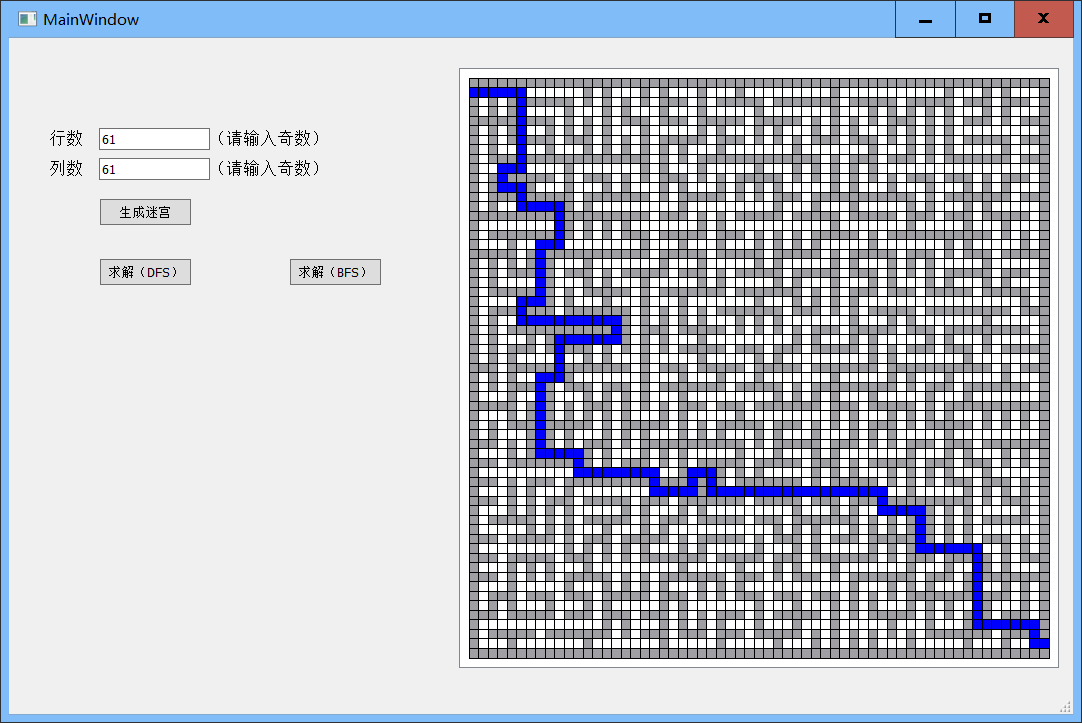
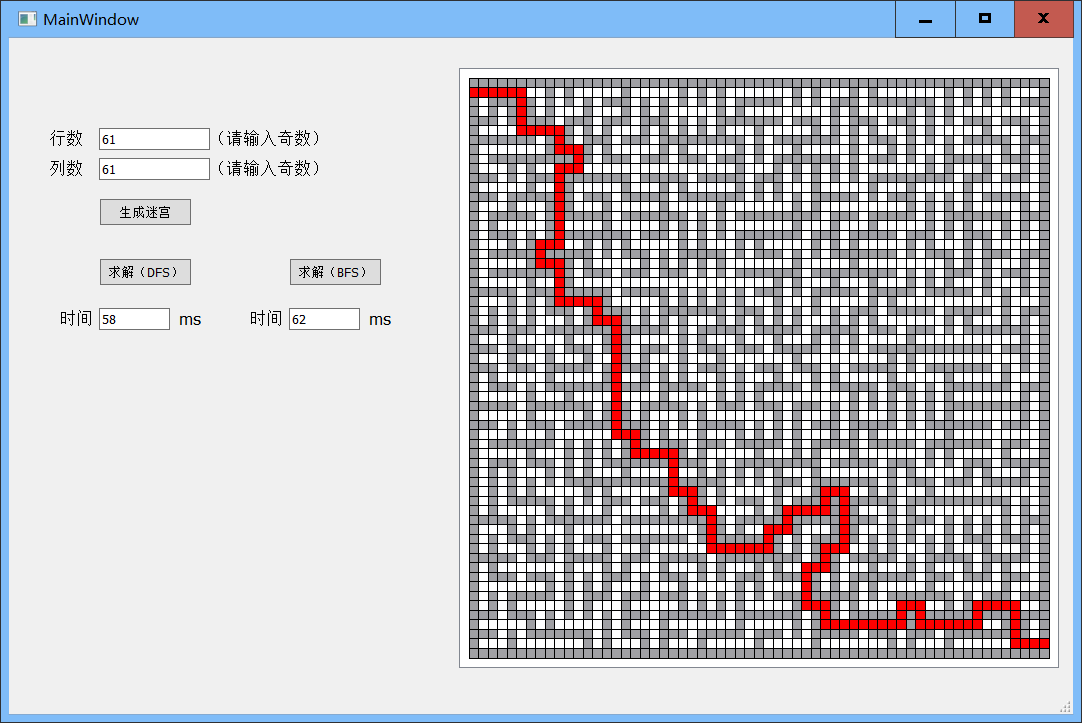
Change

diff --git a/MazeZM/mainwindow.cpp b/MazeZM/mainwindow.cpp
@@ -186,8 +186,12 @@ void MainWindow::search_path1(int row, int col){        //DFS
 
 }
 void MainWindow::get_path1() {
+    clock_t t1 = clock();
     search_path1(row,col);
     draw();
+    int t = (clock() - t1) * 1.0 / CLOCKS_PER_SEC * 1000;
+    QString str = QString("%1").arg(t);
+    ui->time1->setText(str);
 }
 void MainWindow::search_path2(int row,int col){		//BFS
     for(int i = 0;i < row;i++){
@@ -226,6 +230,10 @@ void MainWindow::search_path2(int row,int col){		//BFS
 }
 
 void MainWindow::get_path2() {
+    clock_t t1 = clock();
     search_path2(row,col);
     draw();
+    int t = (clock() - t1) * 1.0 / CLOCKS_PER_SEC * 1000;
+    QString str = QString("%1").arg(t);
+    ui->time2->setText(str);
 }
